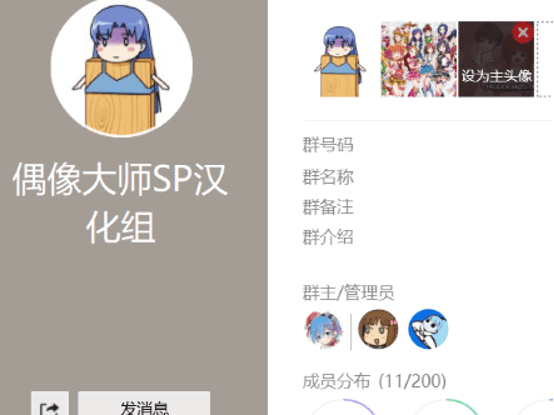
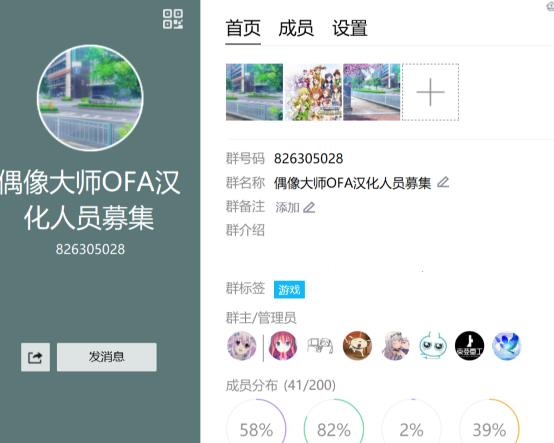
restructure

diff --git a/index.md b/index.md
@@ -1,22 +1,22 @@
 ---
-title: 偶像大师SP汉化项目
-description: 偶像大师SP汉化
+title: 偶像大师OFA汉化项目
+description: 偶像大师OFA汉化
 nav:
   order: 1
-  tooltip: IM@S-SP-SCH-TLProject
+  tooltip: IM@S-OFA-SCH-TLProject
 header: images/header-background.jpg
-footer: images/header-background.jpg
+footer: images/footer-background.jpg
 header-dark: false
 footer-dark: false
 redirect_from:
   - accolades
 ---
 
-# 偶像大师SP 简体中文汉化项目
+# 偶像大师One For All 简体中文汉化项目
 
-《偶像大师 SP》（日语：アイドルマスターエスピー，英语：THE IDOLM@STER SP）是南梦宫（Namco）于2009年2月19日发售的PSP游戏。游戏内容基本上和街机版相同，但亦有不同之处。游戏有Perfect Sun（完美之日）、Missing Moon（思念之月）和Wondering Star（惊奇之星）三个版本。
+《偶像大师 One For All》（偶像大师 全力以赴，日语：アイドルマスター ワンフォーオール，英语：THE iDOLM@STER ONE FOR ALL）是万代南梦宫（Bandai Namco）于2014年5月15日发售的PS3游戏。其游戏内容与前作《偶像大师2》相似，但作了一些改进和更动，让玩家可以培育游戏中765事务所的所有偶像。
 
-本网站为《偶像大师 SP》简体中文汉化组项目主页。
+本网站为《偶像大师 One For All》简体中文汉化项目筹备主页。
 
 {% include section.html %}
 
@@ -24,12 +24,12 @@ redirect_from:
 
 {% capture text %}
 
-我们的目标是对《偶像大师 SP》的对话、mail、DLC以及UI和图片进行完全的简体中文汉化工作。
+我们的目标是对《偶像大师 One For All》的对话、mail、DLC以及UI和图片进行完全的简体中文汉化工作。
 
 {%
   include button.html
   link="projects"
-  text="资源下载"
+  text="效果预览"
   icon="fa-solid fa-arrow-right"
   flip=true
   style="bare"
@@ -47,12 +47,12 @@ redirect_from:
 
 {% capture text %}
 
-我们因一致的热爱而聚集，来自全国各地，为汉化偶像大师SP而合作。
+我们因一致的热爱而聚集，为汉化偶像大师OFA而合作。
 
 {%
   include button.html
   link="team"
-  text="汉化组成员"
+  text="筹备成员"
   icon="fa-solid fa-arrow-right"
   flip=true
   style="bare"
@@ -72,12 +72,12 @@ redirect_from:
 
 {% capture text %}
 
-如果你能够进行日译、程序、修图，亦或是有一腔热情，愿意协助测试，偶像大师SP汉化组欢迎你的加入！
+如果你能够进行日译、程序、修图，亦或是有一腔热情，愿意协助测试，偶像大师OFA汉化项目欢迎你的加入！
 
 {%
   include button.html
   link="contact"
-  text="加入汉化组"
+  text="加入筹备群"
   icon="fa-solid fa-arrow-right"
   flip=true
   style="bare"

diff --git a/contact/index.md b/contact/index.md
@@ -4,31 +4,30 @@ nav:
   order: 5
   tooltip: 邮件，QQ群
 header: images/header-background.jpg
-footer: images/header-background.jpg
+footer: images/footer-background.jpg
 header-dark: false
 footer-dark: false
 ---
 
 # {% include icon.html icon="fa-regular fa-envelope" %}Contact
 
-偶像大师SP汉化组现在招募人手完善IM@S-SP的汉化工作，要求愿意听从组内统一安排，
+偶像大师OFA汉化项目现在拟招募人手已进行IM@S-OFA的汉化立项，要求愿意听从组内统一安排，
 能够按时按量完成对应的任务，混子、投机者勿扰
 
-目前需求日译、英译、美工改图以及编辑人员，同时欢迎满足任意一点或多点的程序和测试
+目前需求日译、美工改图以及编辑人员，同时欢迎满足任意一点或多点的程序和测试
 
 - 日译：具有偶像大师翻译经验的任意水平烤肉er，或N2及以上
-- 英译：CET6/IELTS/TOEFL同等能力及以上
 - 美工：RGBA PNG图片文字处理，偶像大师个性UI图片字体处理
 - 编辑：具有较强的汉语表达和文字编辑能力，能够在翻译辅助下修复机翻文本的语序和语病，保证稳定工作速度
 - 程序&测试：
-  1. 熟悉Perl、Python或者其他任意程序语言均可
+  1. 熟悉C#、WPF开发
   2. 熟悉CMD、Powershell等脚本语言
-  3. 电脑CPU单核性能强悍，愿意部署环境协助游戏打包
+  3. 电脑CPU、GPU性能强悍，或有PS3实机，愿意部署环境协助游戏打包
   4. 愿意花时间辅助校对翻译组编辑文本文件
-  5. 熟悉MIPS汇编，有ppsspp调试经验的二进制逆向Hacker
-  6. 另外也招募能帮助游戏测试的朋友加入帮忙测试，愿意重复尝试不稳定的偶像大师SP游戏，以及游戏分支覆盖 
-     能够仔细发现测试版游戏中出现的问题并及时反馈或者系统自动化测试大佬
-- [偶像大师OFA汉化项目](https://imas-ofa.com)目前处于筹备立项状态，亦欢迎有能P加入
+  5. 有RPCS3调试经验的二进制逆向Hacker
+  6. 另外也招募能帮助游戏测试的朋友加入帮忙测试，愿意重复尝试不稳定的偶像大师OFA游戏，以及游戏分支覆盖 
+     能够仔细发现测试版游戏中出现的问题并及时反馈
+- [偶像大师SP汉化组](https://imas-sp.com)目前正在进行偶像大师SP汉化的工作，亦欢迎有能P加入
 
 {% include section.html %}
 
@@ -49,5 +48,5 @@ footer-dark: false
   type="video"
   text="B站Demo"
   tooltip="B站Demo"
-  link="https://www.bilibili.com/video/BV17z4y1q7Ue"
+  link="https://www.bilibili.com/video/BV1DB4y1o74z"
 %}

diff --git a/404.md b/404.md
@@ -2,7 +2,7 @@
 title: 404
 permalink: /404.html
 header: images/header-background.jpg
-footer: images/header-background.jpg
+footer: images/footer-background.jpg
 ---
 
 ## {% include icon.html icon="fa-solid fa-heart-crack" %} Page Not Found

diff --git a/_members/吉良吉影.md b/_members/吉良吉影.md
@@ -3,7 +3,7 @@ name: 吉良吉影
 image: images/jljy.jpg
 role: editor
 header: images/header-background.jpg
-footer: images/header-background.jpg
+footer: images/footer-background.jpg
 links:
     home-page: about:blank
 ---

diff --git a/_members/如月咏星.md b/_members/如月咏星.md
@@ -3,7 +3,7 @@ name: 如月咏星
 image: images/lyyx.jpg
 role: chjptl
 header: images/header-background.jpg
-footer: images/header-background.jpg
+footer: images/footer-background.jpg
 links:
     home-page: about:blank
 ---

diff --git a/_members/LankerCN.md b/_members/LankerCN.md
@@ -3,7 +3,7 @@ name: LankerCN
 image: images/lankercn.jpg
 role: jptl
 header: images/header-background.jpg
-footer: images/header-background.jpg
+footer: images/footer-background.jpg
 links:
     home-page: about:blank
 ---

diff --git a/_members/低级人灾.md b/_members/低级人灾.md
@@ -3,7 +3,7 @@ name: 低级人灾
 image: images/djrz.jpg
 role: jptl
 header: images/header-background.jpg
-footer: images/header-background.jpg
+footer: images/footer-background.jpg
 links:
     home-page: about:blank
 ---

diff --git a/_members/)๑╹ᆺ╹(.md b/_members/)๑╹ᆺ╹(.md
@@ -3,7 +3,7 @@ name: )๑╹ᆺ╹(
 image: images/ltl.jpg
 role: ea
 header: images/header-background.jpg
-footer: images/header-background.jpg
+footer: images/footer-background.jpg
 links:
     home-page: about:blank
 ---

diff --git a/_members/盐煎肘子.md b/_members/盐煎肘子.md
@@ -3,7 +3,7 @@ name: 盐煎肘子
 image: images/qct.jpg
 role: jptl
 header: images/header-background.jpg
-footer: images/header-background.jpg
+footer: images/footer-background.jpg
 links:
     home-page: about:blank
 ---

diff --git a/_members/枳花伍.md b/_members/枳花伍.md
@@ -3,7 +3,7 @@ name: 枳花伍
 image: images/zhw.jpg
 role: editor
 header: images/header-background.jpg
-footer: images/header-background.jpg
+footer: images/footer-background.jpg
 links:
     home-page: about:blank
 ---

diff --git a/_members/骨气犬.md b/_members/骨气犬.md
@@ -3,7 +3,7 @@ name: 骨气犬
 image: images/gqq.jpg
 role: chjptl
 header: images/header-background.jpg
-footer: images/header-background.jpg
+footer: images/footer-background.jpg
 links:
     home-page: about:blank
 ---

diff --git a/_members/RainbowC.md b/_members/RainbowC.md
@@ -3,7 +3,7 @@ name: RainbowC
 image: images/rainbowc.jpg
 role: ea
 header: images/header-background.jpg
-footer: images/header-background.jpg
+footer: images/footer-background.jpg
 links:
     bilibili: "20274471"
 ---
